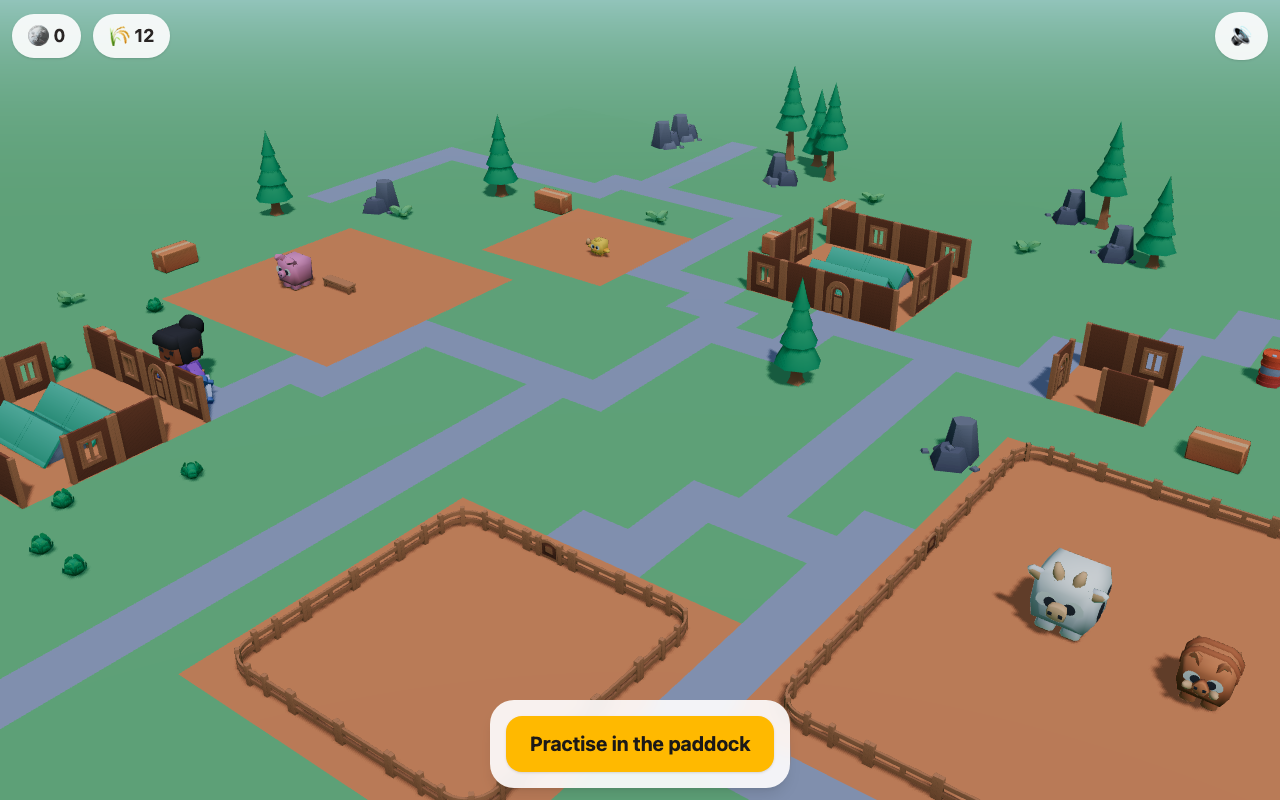
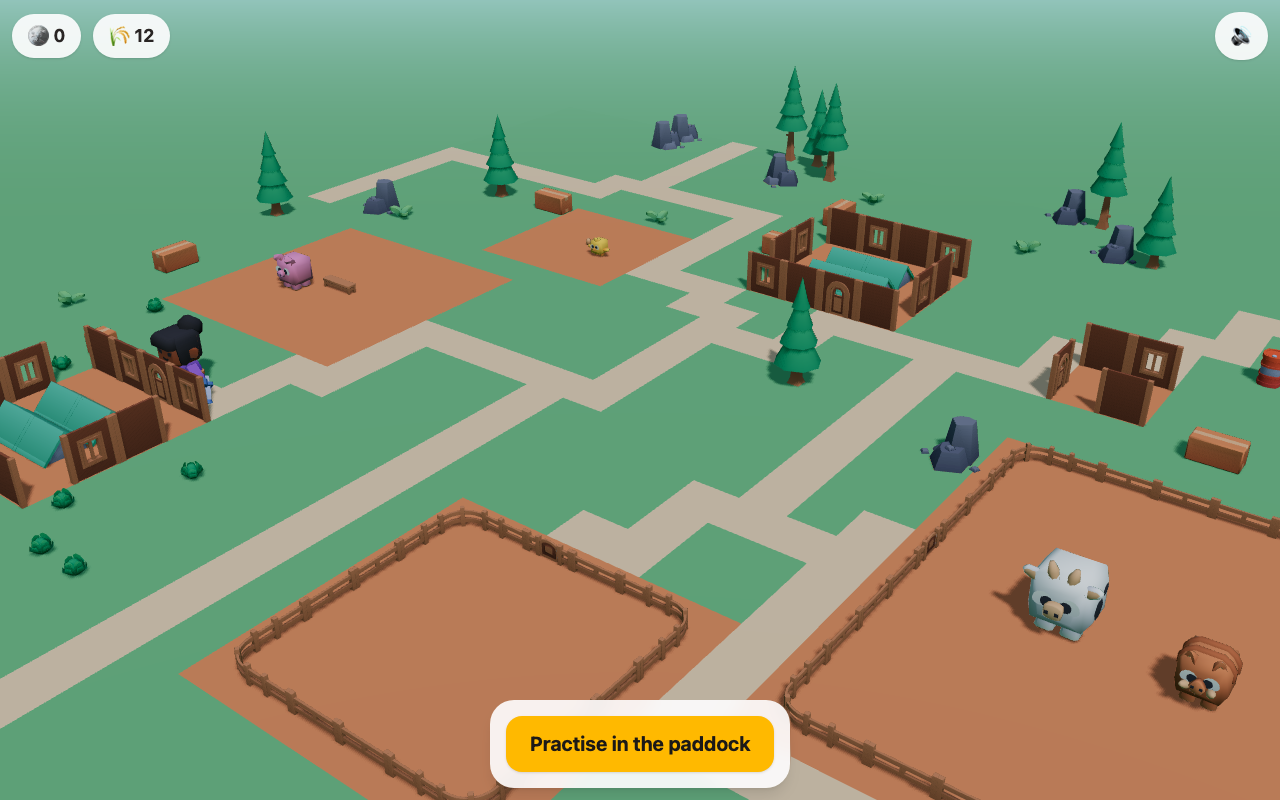
fix(SF-75): path colour — warm light sand, not blue-grey canals
Paths take Fantasy Town's light sand atlas swatch (#f1d0b1) instead of
the blue-grey road colour. They now read as packed earth: warm, and
lighter than both the grass and the dirt pens, so they stand apart by
lightness alone. docs/img/farm-world-paths-before.png and -after.png
show the game camera before and after.

Claude-Session: https://claude.ai/code/session_01XoFymmWrofKwSVoWC8EcRW

diff --git a/apps/web/src/scene/ground-palette.ts b/apps/web/src/scene/ground-palette.ts
@@ -5,7 +5,10 @@ import type { Rgb, Surface } from './ground-surface'
 /**
  * Ground colours, sampled from the Kenney atlases under each kit's own ground
  * piece so the surface matches the models standing on it: Mini Forest's
- * `patch-grass` and `patch-dirt`, Fantasy Town's `road`. Paths are coloured
+ * `patch-grass` and `patch-dirt`. Paths are Fantasy Town's light sand swatch
+ * (`#f1d0b1`), not its blue-grey `road`, which read as canals beside the grass
+ * (PR #121): packed earth, warm and lighter than both grass and the dirt pens,
+ * so a path reads as walkable by lightness alone. Paths are coloured
  * into the surface rather than drawn as `road` models: the road tiles showed a
  * seam at every tile edge and cost a draw (and a shadow draw) per chunk. Water
  * has no atlas piece in these kits (ADR-0003 gap), so it is a calm blue-green.
@@ -13,7 +16,7 @@ import type { Rgb, Surface } from './ground-surface'
 const GROUND_HEX = {
   grass: '#76bc88',
   dirt: '#ea9168',
-  path: '#a0a8c9',
+  path: '#f1d0b1',
   water: '#5fb7b0',
 } as const satisfies Record<GroundPiece['kind'], string>
 
